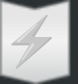
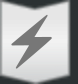
Add disabled_elcd_tab and redo off_elcd_tab PNGs + WIP styling the main page

Changed region(s): [[0.1282, 0.1667, 0.6667, 0.8333]]

diff --git a/src/openstudio_lib/ElectricLoadCenterDistributionGraphicsItems.cpp b/src/openstudio_lib/ElectricLoadCenterDistributionGraphicsItems.cpp
@@ -8,6 +8,7 @@
 
 #include <QPainter>
 #include <QApplication>
+#include <cmath>
 #include <QGraphicsView>
 #include <QGraphicsSceneMouseEvent>
 #include <QHBoxLayout>
@@ -194,6 +195,151 @@ void ELCDSystemMiniView::paint(QPainter* painter, const QStyleOptionGraphicsItem
   painter->setFont(contentFont);
   QRectF bussRect(8, headerHeight() + 8, cellWidth() - 16, 20);
   painter->drawText(bussRect, Qt::AlignVCenter | Qt::AlignLeft, "Buss: " + m_bussType);
+}
+
+// ─── ELCDUtilityGridPanel ────────────────────────────────────────────────────
+
+namespace {
+// Draw a line with an open arrowhead (V-shape) at `to`.
+void drawArrow(QPainter* painter, QPointF from, QPointF to) {
+  painter->drawLine(from, to);
+  QPointF dir = to - from;
+  const double len = std::sqrt(dir.x() * dir.x() + dir.y() * dir.y());
+  if (len < 1.0) {
+    return;
+  }
+  dir /= len;
+  const QPointF perp(-dir.y(), dir.x());
+  painter->drawLine(to, to - dir * 8.0 + perp * 4.0);
+  painter->drawLine(to, to - dir * 8.0 - perp * 4.0);
+}
+}  // namespace
+
+ELCDUtilityGridPanel::ELCDUtilityGridPanel() {
+  static constexpr int kDropW = 160;
+  static constexpr int kDropH = 65;
+  static constexpr int kDropX = 15;
+  static constexpr int kPowerInDropY = kPowerInCentreY - kDropH / 2;    // = 57
+  static constexpr int kPowerOutDropY = kPowerOutCentreY - kDropH / 2;  // = 257
+
+  powerInDropZone = new OSDropZoneItem();
+  powerInDropZone->setSize(kDropW, kDropH);
+  powerInDropZone->setText("Drop PowerInFromGrid\nTransformer");
+  powerInDropZone->setParentItem(this);
+  powerInDropZone->setPos(kDropX, kPowerInDropY);
+  powerInDropZone->setAcceptDrops(true);
+
+  powerOutDropZone = new OSDropZoneItem();
+  powerOutDropZone->setSize(kDropW, kDropH);
+  powerOutDropZone->setText("Drop PowerOutToGrid\nTransformer");
+  powerOutDropZone->setParentItem(this);
+  powerOutDropZone->setPos(kDropX, kPowerOutDropY);
+  powerOutDropZone->setAcceptDrops(true);
+}
+
+QRectF ELCDUtilityGridPanel::boundingRect() const {
+  return {0, 0, kPanelWidth, kPanelHeight};
+}
+
+void ELCDUtilityGridPanel::paint(QPainter* painter, const QStyleOptionGraphicsItem* /*option*/, QWidget* /*widget*/) {
+  static constexpr int kDropH = 65;
+  static constexpr int kDropX = 15;
+  static constexpr int kDropW = 160;
+  static constexpr int kPowerInDropY = kPowerInCentreY - kDropH / 2;
+  static constexpr int kPowerOutDropY = kPowerOutCentreY - kDropH / 2;
+  static constexpr int kMidX = kPanelWidth / 2;
+
+  // Panel background + border (no title bar — the power grid icon to the left serves that role)
+  painter->setBrush(QColor(245, 247, 250));
+  painter->setPen(QPen(QColor(150, 160, 175), 1));
+  painter->drawRect(0, 0, kPanelWidth, kPanelHeight);
+
+  // Labels above drop zones
+  QFont lf = painter->font();
+  lf.setBold(false);
+  lf.setPointSize(7);
+  painter->setFont(lf);
+  painter->setPen(QColor(60, 60, 80));
+  painter->drawText(QRectF(kDropX, kPowerInDropY - 15, kDropW, 14), Qt::AlignVCenter | Qt::AlignLeft, "Power In From Grid:");
+  painter->drawText(QRectF(kDropX, kPowerOutDropY - 15, kDropW, 14), Qt::AlignVCenter | Qt::AlignLeft, "Power Out To Grid:");
+
+  // Vertical dashed line connecting the two drop zones
+  QPen dashPen(QColor(130, 140, 160), 1, Qt::DashLine);
+  painter->setPen(dashPen);
+  painter->drawLine(kMidX, kPowerInDropY + kDropH + 4, kMidX, kPowerOutDropY - 4);
+
+  QPen arrowPen(QColor(70, 130, 180), 1.5);
+  painter->setPen(arrowPen);
+  painter->setBrush(QColor(70, 130, 180));
+
+  // Left-edge stubs: connections from the Utility Grid icon (left) to each drop zone
+  // PowerIn: arrow pointing right (→ power flows from grid into transformer)
+  drawArrow(painter, QPointF(0, kPowerInCentreY), QPointF(kDropX - 2, kPowerInCentreY));
+  // PowerOut: arrow pointing left (← power flows from transformer back to grid)
+  drawArrow(painter, QPointF(kDropX - 2, kPowerOutCentreY), QPointF(0, kPowerOutCentreY));
+
+  // Right-edge stubs: connections from each drop zone to the Main Panel (right)
+  // PowerIn: arrow pointing right (→)
+  drawArrow(painter, QPointF(kDropX + kDropW + 4, kPowerInCentreY), QPointF(kPanelWidth, kPowerInCentreY));
+  // PowerOut: arrow pointing left (←)
+  drawArrow(painter, QPointF(kPanelWidth - 1, kPowerOutCentreY), QPointF(kDropX + kDropW + 4, kPowerOutCentreY));
+}
+
+// ─── ELCDMainPanelItem ───────────────────────────────────────────────────────
+
+ELCDMainPanelItem::ELCDMainPanelItem() = default;
+
+QRectF ELCDMainPanelItem::boundingRect() const {
+  return {0, 0, kPanelWidth, kPanelHeight};
+}
+
+void ELCDMainPanelItem::paint(QPainter* painter, const QStyleOptionGraphicsItem* /*option*/, QWidget* /*widget*/) {
+  // Dashed border box
+  QPen dashBorder(QColor(100, 120, 160), 1.5, Qt::DashLine);
+  painter->setBrush(QColor(240, 244, 250));
+  painter->setPen(dashBorder);
+  painter->drawRect(2, 2, kPanelWidth - 4, kPanelHeight - 4);
+
+  // "MAIN PANEL" title
+  QFont f = painter->font();
+  f.setBold(true);
+  f.setPointSize(8);
+  painter->setFont(f);
+  painter->setPen(QColor(60, 80, 120));
+  painter->drawText(QRectF(0, 8, kPanelWidth, 20), Qt::AlignCenter, "MAIN PANEL");
+
+  // Subpanel arrow stubs on the right edge — indicate ELCD subpanel connections
+  // Two representative rows (y=90 and y=280, matching ELCD card row centres)
+  static constexpr int kSubpanelY0 = ELCDUtilityGridPanel::kPowerInCentreY;  // y=90
+  static constexpr int kSubpanelY1 = 280;
+  QPen arrowPen(QColor(70, 130, 180), 1.5);
+  painter->setPen(arrowPen);
+  painter->setBrush(QColor(70, 130, 180));
+  // Arrows pointing left (◀) — ELCD subpanels feed power INTO the Main Panel
+  drawArrow(painter, QPointF(kPanelWidth - 1, kSubpanelY0), QPointF(8, kSubpanelY0));
+  drawArrow(painter, QPointF(kPanelWidth - 1, kSubpanelY1), QPointF(8, kSubpanelY1));
+
+  // "subpanel" labels next to each arrow
+  QFont sf = painter->font();
+  sf.setBold(false);
+  sf.setPointSize(7);
+  painter->setFont(sf);
+  painter->setPen(QColor(80, 100, 140));
+  painter->drawText(QRectF(10, kSubpanelY0 - 14, kPanelWidth - 14, 12), Qt::AlignLeft | Qt::AlignVCenter, "subpanel");
+  painter->drawText(QRectF(10, kSubpanelY1 - 14, kPanelWidth - 14, 12), Qt::AlignLeft | Qt::AlignVCenter, "subpanel");
+
+  // "Building & HVAC Electric Meters" footer with down arrow
+  QFont ff = painter->font();
+  ff.setPointSize(7);
+  painter->setFont(ff);
+  painter->setPen(QColor(60, 60, 80));
+  QRectF footerRect(4, kPanelHeight - 60, kPanelWidth - 8, 40);
+  painter->drawText(footerRect, Qt::AlignCenter | Qt::TextWordWrap, "Building & HVAC\nElectric Meters");
+
+  QPen arrowPen2(QColor(100, 100, 120), 1.5);
+  painter->setPen(arrowPen2);
+  painter->setBrush(QColor(100, 100, 120));
+  drawArrow(painter, QPointF(kPanelWidth / 2, kPanelHeight - 18), QPointF(kPanelWidth / 2, kPanelHeight - 4));
 }
 
 // ─── ELCDDropZoneView ────────────────────────────────────────────────────────

diff --git a/src/openstudio_lib/ElectricLoadCenterDistributionTabController.cpp b/src/openstudio_lib/ElectricLoadCenterDistributionTabController.cpp
@@ -20,6 +20,10 @@
 
 #include <QGraphicsScene>
 #include <QGraphicsView>
+#include <QGraphicsLineItem>
+#include <QGraphicsPixmapItem>
+#include <QGraphicsSimpleTextItem>
+#include <QPixmap>
 #include <QPushButton>
 #include <QTimer>
 
@@ -43,7 +47,64 @@ ElectricLoadCenterDistributionTabController::ElectricLoadCenterDistributionTabCo
   m_elcdGridView->setListController(m_listController);
   m_elcdGridView->setDelegate(QSharedPointer<ELCDItemDelegate>(new ELCDItemDelegate()));
 
+  // ── Overview scene layout ──────────────────────────────────────────────────
+  // Column positions:
+  //   x=0:   power_grid icon          (width=100, icon 70×70 centred)
+  //   x=100: ELCDUtilityGridPanel     (width=190)
+  //   x=330: ELCDMainPanelItem        (width=160)
+  //   x=530: ELCD card grid
+  constexpr int kIconColWidth = 100;
+  constexpr int kIconSize = 70;
+  constexpr int kUtilityPanelX = kIconColWidth;                                         // 100
+  constexpr int kMainPanelX = kUtilityPanelX + ELCDUtilityGridPanel::kPanelWidth + 40;  // 330
+  constexpr int kElcdGridX = kMainPanelX + ELCDMainPanelItem::kPanelWidth + 40;         // 530
+
+  // Power grid icon (leftmost element)
+  const QPixmap gridPixmap(":/images/power_grid.png");
+  if (!gridPixmap.isNull()) {
+    const QPixmap scaled = gridPixmap.scaled(kIconSize, kIconSize, Qt::KeepAspectRatio, Qt::SmoothTransformation);
+    auto* iconItem = m_gridScene->addPixmap(scaled);
+    iconItem->setPos((kIconColWidth - scaled.width()) / 2, (ELCDUtilityGridPanel::kPanelHeight - scaled.height()) / 2);
+
+    auto* label = m_gridScene->addSimpleText("Utility Grid");
+    QFont labelFont;
+    labelFont.setPointSize(7);
+    label->setFont(labelFont);
+    label->setBrush(QColor(60, 60, 80));
+    const int labelX = (kIconColWidth - static_cast<int>(label->boundingRect().width())) / 2;
+    label->setPos(labelX, (ELCDUtilityGridPanel::kPanelHeight - scaled.height()) / 2 + scaled.height() + 4);
+  }
+
+  m_utilityGridPanel = new ELCDUtilityGridPanel();
+  m_gridScene->addItem(m_utilityGridPanel);
+  m_utilityGridPanel->setPos(kUtilityPanelX, 0);
+
+  m_mainPanelItem = new ELCDMainPanelItem();
+  m_gridScene->addItem(m_mainPanelItem);
+  m_mainPanelItem->setPos(kMainPanelX, 0);
+
+  m_elcdGridView->setPos(kElcdGridX, 0);
   m_gridScene->addItem(m_elcdGridView);
+
+  // Connecting lines between columns
+  const QPen connectorPen(QColor(70, 130, 180), 1.5);
+  // Icon → PowerIn transformer (left edge of utility panel)
+  m_gridScene->addLine(kIconColWidth - 20, ELCDUtilityGridPanel::kPowerInCentreY, kUtilityPanelX, ELCDUtilityGridPanel::kPowerInCentreY,
+                       connectorPen);
+  // PowerOut transformer → icon (left edge of utility panel)
+  m_gridScene->addLine(kUtilityPanelX, ELCDUtilityGridPanel::kPowerOutCentreY, kIconColWidth - 20, ELCDUtilityGridPanel::kPowerOutCentreY,
+                       connectorPen);
+  // PowerIn transformer → Main Panel
+  m_gridScene->addLine(kUtilityPanelX + ELCDUtilityGridPanel::kPanelWidth, ELCDUtilityGridPanel::kPowerInCentreY, kMainPanelX,
+                       ELCDUtilityGridPanel::kPowerInCentreY, connectorPen);
+  // Main Panel → PowerOut transformer
+  m_gridScene->addLine(kMainPanelX, ELCDUtilityGridPanel::kPowerOutCentreY, kUtilityPanelX + ELCDUtilityGridPanel::kPanelWidth,
+                       ELCDUtilityGridPanel::kPowerOutCentreY, connectorPen);
+  // Subpanel row 0: ELCD grid → Main Panel right edge (y=90)
+  m_gridScene->addLine(kElcdGridX, ELCDUtilityGridPanel::kPowerInCentreY, kMainPanelX + ELCDMainPanelItem::kPanelWidth,
+                       ELCDUtilityGridPanel::kPowerInCentreY, connectorPen);
+  // Subpanel row 1: y=280
+  m_gridScene->addLine(kElcdGridX, 280, kMainPanelX + ELCDMainPanelItem::kPanelWidth, 280, connectorPen);
 
   this->mainContentWidget()->addTabWidget(m_elcdView);
 

diff --git a/src/openstudio_lib/ElectricLoadCenterDistributionGraphicsItems.hpp b/src/openstudio_lib/ElectricLoadCenterDistributionGraphicsItems.hpp
@@ -91,6 +91,47 @@ class ELCDSystemMiniView : public QGraphicsObject
   void onZoomInButtonClicked();
 };
 
+// ─── ELCDUtilityGridPanel ────────────────────────────────────────────────────
+// Left column of the overview: Utility Grid label + two transformer drop zones.
+class ELCDUtilityGridPanel : public QGraphicsObject
+{
+  Q_OBJECT;
+
+ public:
+  ELCDUtilityGridPanel();
+  QRectF boundingRect() const override;
+
+  OSDropZoneItem* powerInDropZone{nullptr};   // PowerInFromGrid transformer
+  OSDropZoneItem* powerOutDropZone{nullptr};  // PowerOutToGrid transformer
+
+  // Y-coordinates (panel-local) of each drop zone centre — used by the
+  // controller to draw connecting arrows to the Main Panel item.
+  static constexpr int kPowerInCentreY = 90;
+  static constexpr int kPowerOutCentreY = 290;
+  static constexpr int kPanelWidth = 190;
+  static constexpr int kPanelHeight = 340;
+
+ protected:
+  void paint(QPainter* painter, const QStyleOptionGraphicsItem* option, QWidget* widget) override;
+};
+
+// ─── ELCDMainPanelItem ───────────────────────────────────────────────────────
+// Centre column of the overview: Main Panel with subpanel connection stubs.
+class ELCDMainPanelItem : public QGraphicsObject
+{
+  Q_OBJECT;
+
+ public:
+  ELCDMainPanelItem();
+  QRectF boundingRect() const override;
+
+  static constexpr int kPanelWidth = 160;
+  static constexpr int kPanelHeight = 340;
+
+ protected:
+  void paint(QPainter* painter, const QStyleOptionGraphicsItem* option, QWidget* widget) override;
+};
+
 // ─── ELCDDropZoneView ────────────────────────────────────────────────────────
 // "Add / Drop Electric Load Center" placeholder card in overview.
 class ELCDDropZoneView : public OSDropZoneItem

diff --git a/src/openstudio_lib/ElectricLoadCenterDistributionTabController.hpp b/src/openstudio_lib/ElectricLoadCenterDistributionTabController.hpp
@@ -23,6 +23,8 @@ namespace openstudio {
 
 class ELCDView;
 class ELCDScene;
+class ELCDUtilityGridPanel;
+class ELCDMainPanelItem;
 class GridLayoutItem;
 class ELCDListController;
 class OSItemId;
@@ -55,6 +57,9 @@ class ElectricLoadCenterDistributionTabController : public MainTabController
   QPointer<QGraphicsScene> m_detailScene;
 
   QSharedPointer<ELCDListController> m_listController;
+
+  QPointer<ELCDUtilityGridPanel> m_utilityGridPanel;
+  QPointer<ELCDMainPanelItem> m_mainPanelItem;
 
   boost::optional<model::ElectricLoadCenterDistribution> m_currentELCD;
   bool m_dirty = false;

diff --git a/src/openstudio_lib/OSDocument.cpp b/src/openstudio_lib/OSDocument.cpp
@@ -386,7 +386,7 @@ void OSDocument::createTabButtons() {
                                      ":/images/disabled_hvac_tab.png");
 
   m_mainWindow->addVerticalTabButton(ELECTRIC_LOAD_CENTER, "Electric Load Center", ":/images/on_elcd_tab.png", ":/images/off_elcd_tab.png",
-                                     ":/images/off_elcd_tab.png");
+                                     ":/images/disabled_elcd_tab.png");
 
   //******************************************************************************************************
   //

diff --git a/src/openstudio_lib/MainRightColumnController.hpp b/src/openstudio_lib/MainRightColumnController.hpp
@@ -32,7 +32,7 @@ class MainRightColumnController : public OSQObjectController
  public:
   MainRightColumnController(const model::Model& model, const openstudio::path& resourcesPath);
 
-  virtual ~MainRightColumnController(){};
+  virtual ~MainRightColumnController() {};
 
   HorizontalTabWidget* mainRightColumnView() const;
 
